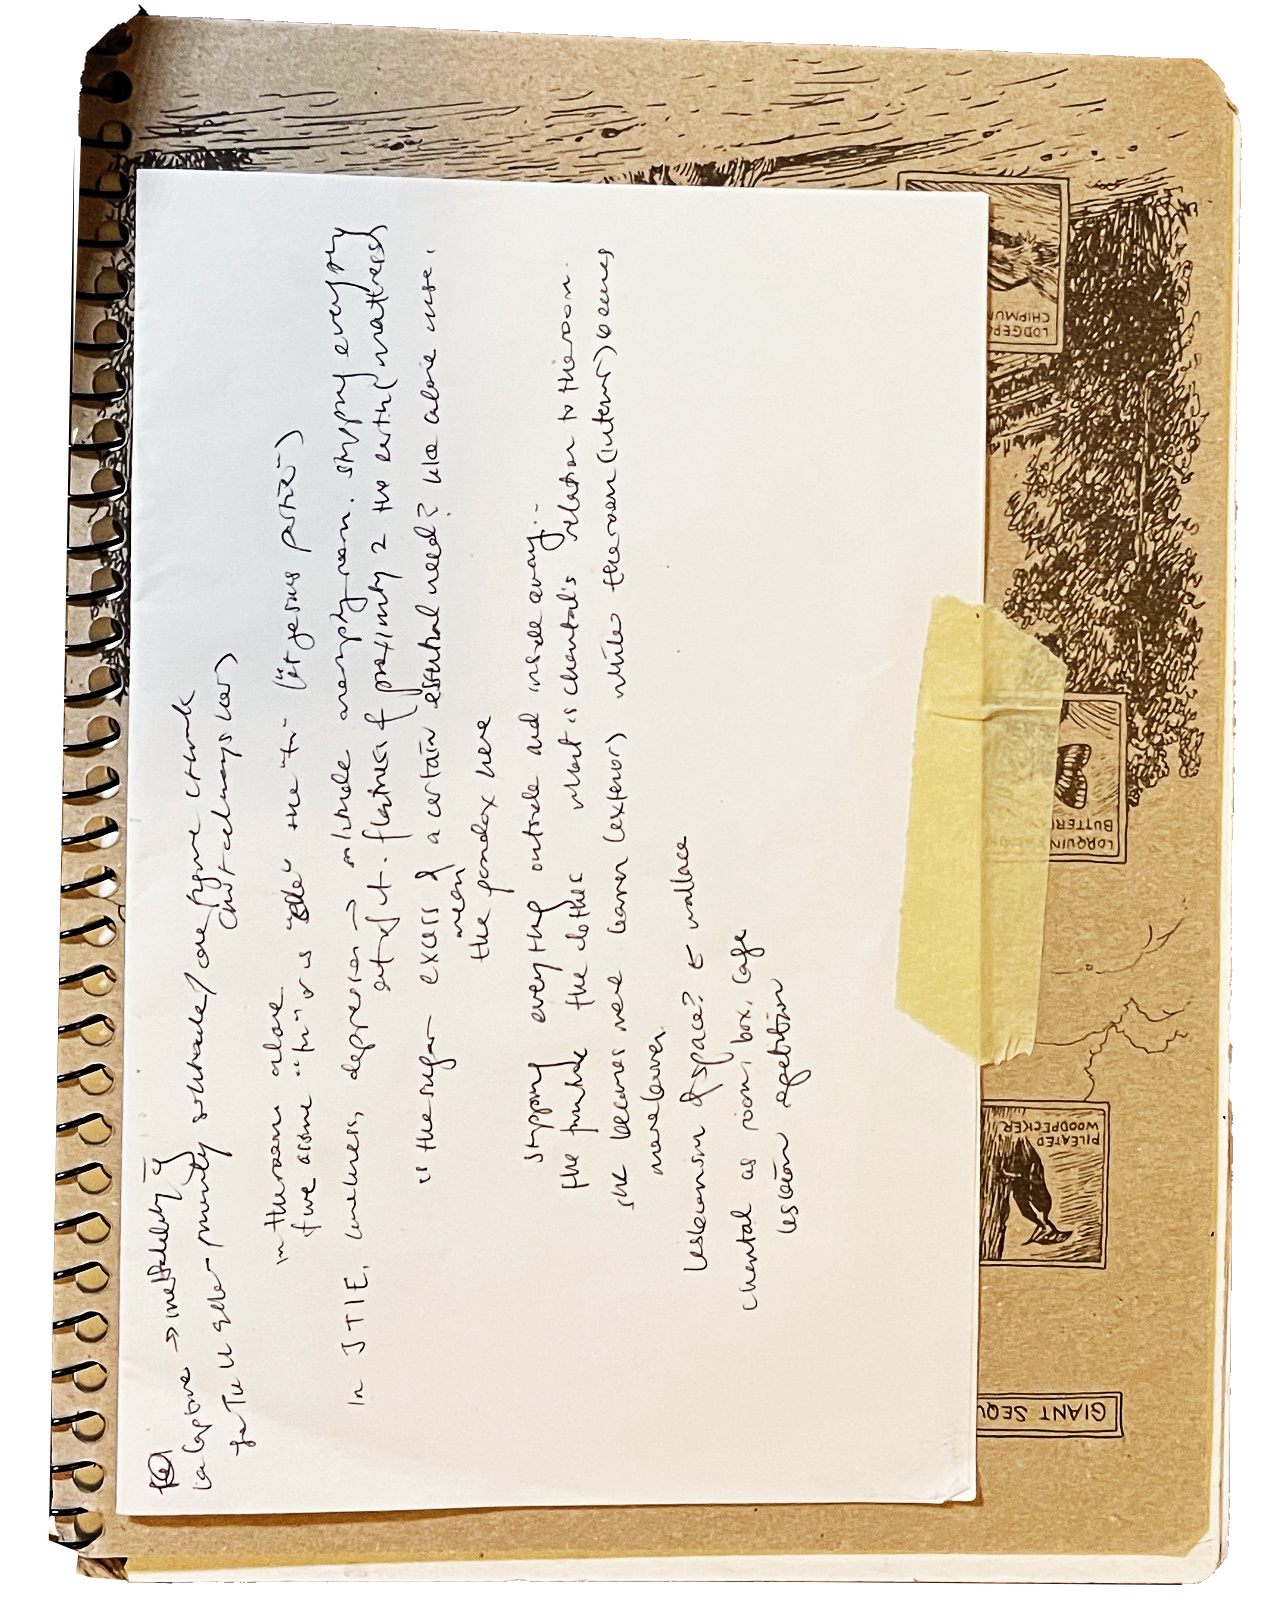
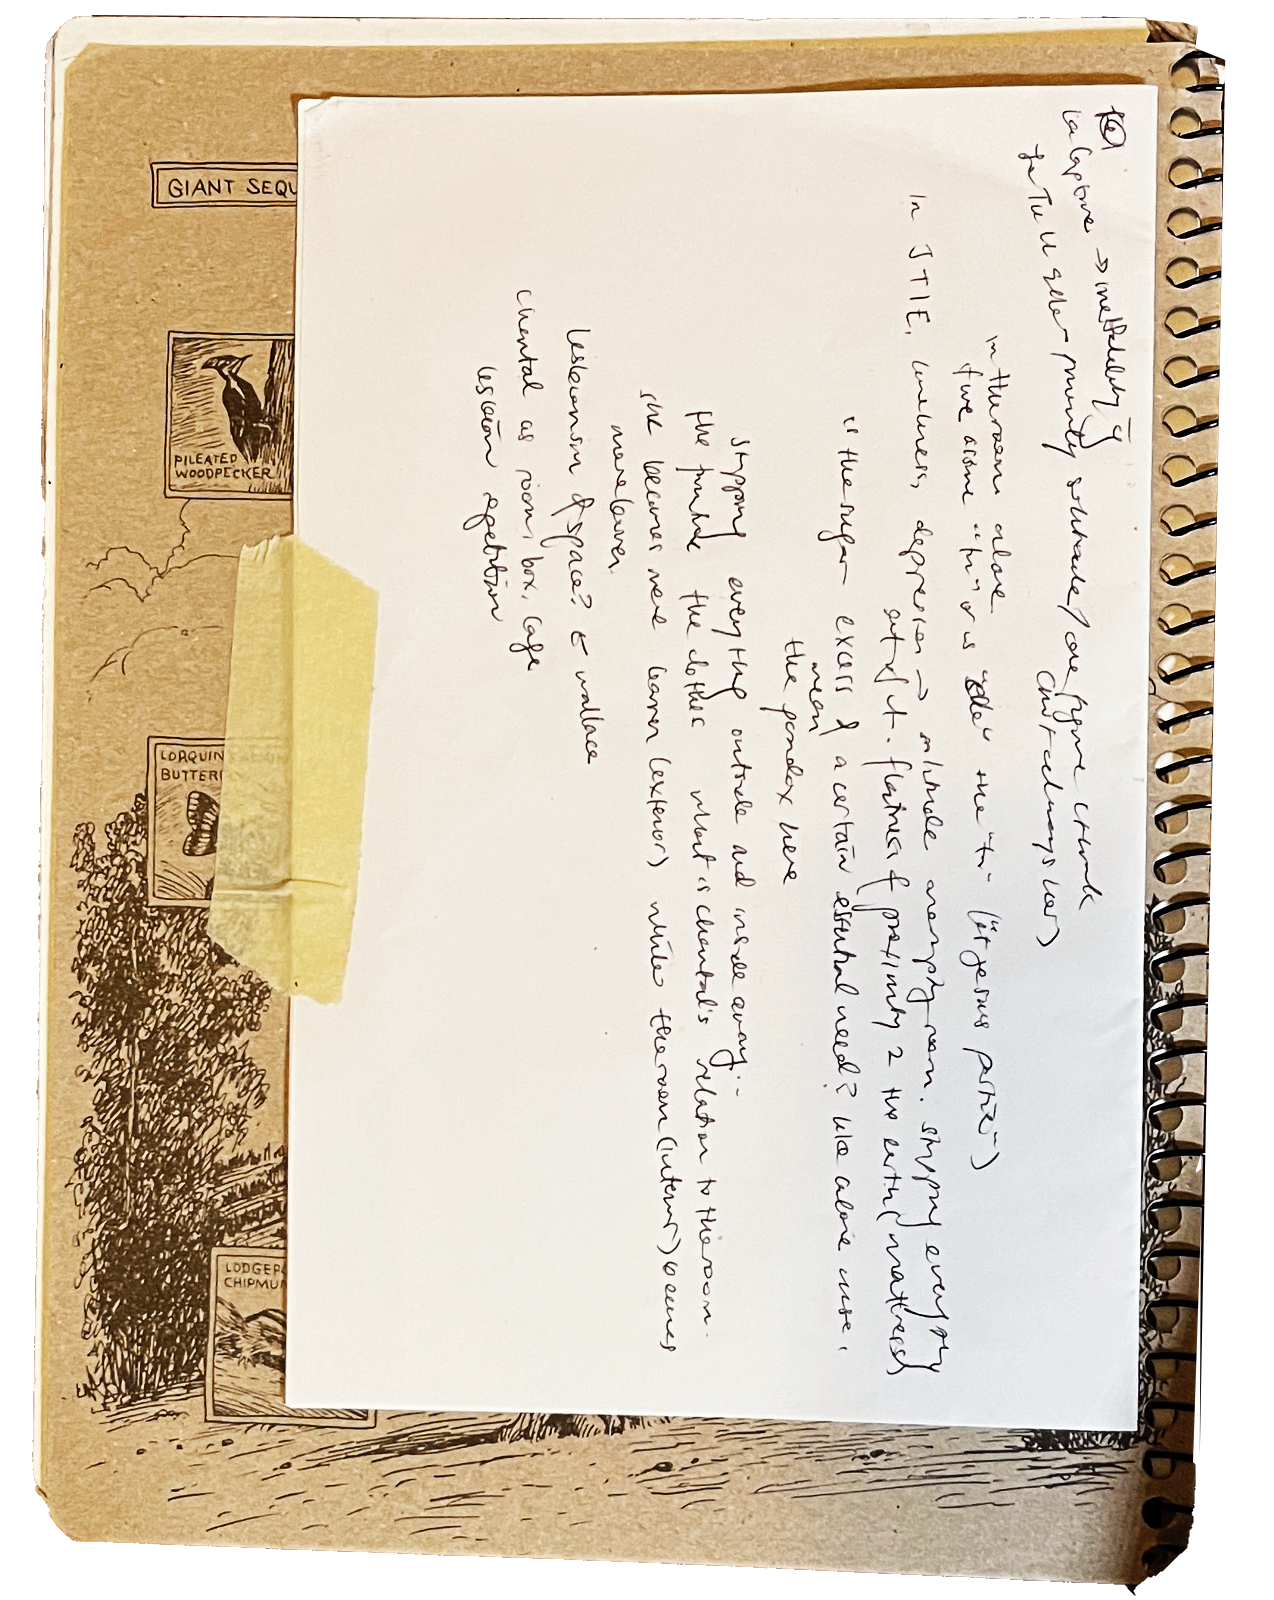
gah

diff --git a/notebook.html b/notebook.html
@@ -35,8 +35,12 @@
         </div>
 
         <nav class="nav-columns">
-            <button id="navMenuButton">
-                <i class="fa-solid fa-moon"></i>
+            <button id="navMenuMinus">
+                <p id="minusText">&mdash;</p>
+            </button>
+
+            <button id="navMenuPlus" class="hidden">
+                <p id="plusText">+</p>
             </button>
 
             <div class="main-menu-full">
@@ -63,21 +67,25 @@
 
     <main>
         <div class="section">
-            <div class="journal-pics">
-                <figure><img src="/images/notebooks/j1.png"></figure>
-                <figure><img src="/images/notebooks/j3.png"></figure>
-                <figure><img src="/images/notebooks/j2.png"></figure>
-                <figure><img src="/images/notebooks/j4.png"></figure>
-            </div>
+
             <div class="page-title">
                 <h2>bits and pieces</h2>
             </div>
-            <p class="grey">the part where i'm an exhibitionist or an attention whore, it's probably both. <em>general content warning for mental health related topics.</em></p>
+            <p class="grey">the part where i'm an exhibitionist or an attention whore, it's probably both. <em>general
+                    content warning for mental health related topics.</em></p>
+
+            <div class="journal-pics">
+                <figure><img src="/images/notebooks/j1.png"></figure>
+                <figure><img src="/images/notebooks/j3.png"></figure>
+                <figure><img src="/images/notebooks/j4.png"></figure>
+                <figure><img src="/images/notebooks/j2.png"></figure>
+            </div>
+
             <div class="gallery notebook-grid">
                 <div class="notebook-entry">
                     <div class="two-column entry-details">
                         <p class="n-date">[date]</p>
-                  
+
                     </div>
                     <p>ahhhhhhhhhh</p>
                 </div>
@@ -85,48 +93,61 @@
                 <div class="notebook-entry">
                     <div class="two-column entry-details">
                         <p class="n-date">2026.09.02</p>
-                        
+
                     </div>
-                    <p><a href="https://www.cornellsun.com/article/2026/09/aysw-the-pull-of-chantal-akerman">external: the pull of chantal akerman</a>. in which my editor suggested i fell in love with her instead of into her work. i think he was right &mdash; i am pulled, compelled. a compulsion. obsessive. obsessed. endless circles around her.</p>
+                    <p><a href="https://www.cornellsun.com/article/2026/09/aysw-the-pull-of-chantal-akerman">external
+                            link: the pull of chantal akerman</a>. in which my editor suggested i fell in love with her.
+                        i think he was right &mdash; i am pulled, compelled. a compulsion. obsessive. obsessed. endless
+                        circles around her.</p>
                 </div>
 
                 <div class="notebook-entry">
                     <div class="two-column entry-details">
                         <p class="n-date">[date]</p>
-                     
+
                     </div>
-                    <p>Lorem ipsum dolor sit amet, consectetur adipiscing elit, sed do eiusmod tempor incididunt ut labore et dolore magna aliqua. Ut enim ad minim veniam, quis nostrud exercitation ullamco laboris nisi ut aliquip ex ea commodo consequat. </p>
+                    <p>Lorem ipsum dolor sit amet, consectetur adipiscing elit, sed do eiusmod tempor incididunt ut
+                        labore et dolore magna aliqua. Ut enim ad minim veniam, quis nostrud exercitation ullamco
+                        laboris nisi ut aliquip ex ea commodo consequat. </p>
                 </div>
 
                 <div class="notebook-entry">
                     <div class="two-column entry-details">
-                   
-                    </div>
-                    <p>Lorem ipsum dolor sit amet, consectetur adipiscing elit, sed do eiusmod tempor incididunt ut labore et dolore magna aliqua. Ut enim ad minim veniam, quis nostrud exercitation ullamco laboris nisi ut aliquip ex ea commodo consequat. </p>
-                </div>
 
-                <div class="notebook-entry">
-                    <div class="two-column entry-details">
-                        <p class="n-date">[date]</p>
-                 
                     </div>
-                    <p>Lorem ipsum dolor sit amet, consectetur adipiscing elit, sed do eiusmod tempor incididunt ut labore et dolore magna aliqua. Ut enim ad minim veniam, quis nostrud exercitation ullamco laboris nisi ut aliquip ex ea commodo consequat. </p>
-                </div>
-
-                <div class="notebook-entry">
-                    <div class="two-column entry-details">
-                        <p class="n-date">[date]</p>
-       
-                    </div>
-                    <p>Lorem ipsum dolor sit amet, consectetur adipiscing elit, sed do eiusmod tempor incididunt ut labore et dolore magna aliqua. Ut enim ad minim veniam, quis nostrud exercitation ullamco laboris nisi ut aliquip ex ea commodo consequat. </p>
+                    <p>Lorem ipsum dolor sit amet, consectetur adipiscing elit, sed do eiusmod tempor incididunt ut
+                        labore et dolore magna aliqua. Ut enim ad minim veniam, quis nostrud exercitation ullamco
+                        laboris nisi ut aliquip ex ea commodo consequat. </p>
                 </div>
 
                 <div class="notebook-entry">
                     <div class="two-column entry-details">
                         <p class="n-date">[date]</p>
-          
+
                     </div>
-                    <p>Lorem ipsum dolor sit amet, consectetur adipiscing elit, sed do eiusmod tempor incididunt ut labore et dolore magna aliqua. Ut enim ad minim veniam, quis nostrud exercitation ullamco laboris nisi ut aliquip ex ea commodo consequat. </p>
+                    <p>Lorem ipsum dolor sit amet, consectetur adipiscing elit, sed do eiusmod tempor incididunt ut
+                        labore et dolore magna aliqua. Ut enim ad minim veniam, quis nostrud exercitation ullamco
+                        laboris nisi ut aliquip ex ea commodo consequat. </p>
+                </div>
+
+                <div class="notebook-entry">
+                    <div class="two-column entry-details">
+                        <p class="n-date">[date]</p>
+
+                    </div>
+                    <p>Lorem ipsum dolor sit amet, consectetur adipiscing elit, sed do eiusmod tempor incididunt ut
+                        labore et dolore magna aliqua. Ut enim ad minim veniam, quis nostrud exercitation ullamco
+                        laboris nisi ut aliquip ex ea commodo consequat. </p>
+                </div>
+
+                <div class="notebook-entry">
+                    <div class="two-column entry-details">
+                        <p class="n-date">[date]</p>
+
+                    </div>
+                    <p>Lorem ipsum dolor sit amet, consectetur adipiscing elit, sed do eiusmod tempor incididunt ut
+                        labore et dolore magna aliqua. Ut enim ad minim veniam, quis nostrud exercitation ullamco
+                        laboris nisi ut aliquip ex ea commodo consequat. </p>
                 </div>
             </div>
 

diff --git a/collecting.html b/collecting.html
@@ -28,15 +28,19 @@
     <script src="scripts/index.js"></script>
 
 
-    <header>
+   <header>
         <div class="home">
             <h1><a href="/index.html">a trip to the moon</a></h1>
             <h3><em>bordering on fiction</em></h3>
         </div>
 
         <nav class="nav-columns">
-            <button id="navMenuButton">
-                <i class="fa-solid fa-moon"></i>
+            <button id="navMenuMinus">
+                <p id="minusText">&mdash;</p>
+            </button>
+
+            <button id="navMenuPlus" class="hidden">
+                <p id="plusText">+</p>
             </button>
 
             <div class="main-menu-full">
@@ -60,6 +64,8 @@
             </div>
         </nav>
     </header>
+
+
     <main>
         <div class="section">
             <p class="grey">a (re)collection of things</p>
@@ -73,7 +79,7 @@
                 </div>
 
                 <div class="collection-item">
-                    <p>test text test text test text test text test</p>
+                    <p>CA: My energy comes in fits. I spend half my time in bed. Luckily there’s a window now in front of me, and I look outside. Before, there was a wall. I had my first manic episode at 34. My life changed, something broke down: something of that energy that filled me when I was younger. Previously, I had felt a kind of energy in life, with moments of depression of course – but I read constantly, took notes, was curious about everything. Then it was gone … The breakdown knocked me out.</p>
                 </div>
             </div>
         </div>

diff --git a/styles/site.css b/styles/site.css
@@ -16,6 +16,8 @@ header {
     display: flex;
     flex-direction: row;
     align-items: start;
+    margin-left: auto;
+    margin-right: auto;
 }
 
 div {
@@ -208,6 +210,10 @@ nav a {
     width: 25%;
 }
 
+.skbk {
+    margin-top: 3em;
+}
+
 .sk-vert {
     width: 20%;
 }
@@ -336,6 +342,7 @@ nav a {
     margin-right: auto;
     justify-content: center;
     align-items: end;
+    margin-right:1.5em;
 }
 
 /* photo */
@@ -344,6 +351,7 @@ nav a {
     grid-template-columns: repeat(3, 1fr);
     column-gap: 1.25em;
     margin-top: 1.5em;
+    align-items: end;
 }
 
 .photo-grid figure {
@@ -358,10 +366,11 @@ nav a {
     row-gap: 1.25em;
     align-items: end;
     justify-items: center;
+    margin-top: 1.5em;
 }
 
 .collection-item {
-    max-width: 95%;
+    max-width: 90%;
 }
 
 /* hover */

diff --git a/about.html b/about.html
@@ -9,7 +9,7 @@
     <script src="https://kit.fontawesome.com/0027ad2511.js" crossorigin="anonymous"></script>
 
     <link rel="stylesheet" href="/styles/site.css">
-    
+
 
     <!-- fonts -->
     <link rel="preconnect" href="https://fonts.googleapis.com">
@@ -35,8 +35,12 @@
         </div>
 
         <nav class="nav-columns">
-            <button id="navMenuButton">
-                <i class="fa-solid fa-moon"></i>
+            <button id="navMenuMinus">
+                <p id="minusText">&mdash;</p>
+            </button>
+
+            <button id="navMenuPlus" class="hidden">
+                <p id="plusText">+</p>
             </button>
 
             <div class="main-menu-full">

diff --git a/log.html b/log.html
@@ -9,7 +9,7 @@
     <script src="https://kit.fontawesome.com/0027ad2511.js" crossorigin="anonymous"></script>
 
     <link rel="stylesheet" href="/styles/site.css">
-    
+
 
     <!-- fonts -->
     <link rel="preconnect" href="https://fonts.googleapis.com">
@@ -35,8 +35,12 @@
         </div>
 
         <nav class="nav-columns">
-            <button id="navMenuButton">
-                <i class="fa-solid fa-moon"></i>
+            <button id="navMenuMinus">
+                <p id="minusText">&mdash;</p>
+            </button>
+
+            <button id="navMenuPlus" class="hidden">
+                <p id="plusText">+</p>
             </button>
 
             <div class="main-menu-full">

diff --git a/sketchbooks.html b/sketchbooks.html
@@ -9,7 +9,7 @@
     <script src="https://kit.fontawesome.com/0027ad2511.js" crossorigin="anonymous"></script>
 
     <link rel="stylesheet" href="/styles/site.css">
-    
+
 
     <!-- fonts -->
     <link rel="preconnect" href="https://fonts.googleapis.com">
@@ -35,8 +35,12 @@
         </div>
 
         <nav class="nav-columns">
-            <button id="navMenuButton">
-                <i class="fa-solid fa-moon"></i>
+            <button id="navMenuMinus">
+                <p id="minusText">&mdash;</p>
+            </button>
+
+            <button id="navMenuPlus" class="hidden">
+                <p id="plusText">+</p>
             </button>
 
             <div class="main-menu-full">

diff --git a/s1.html b/s1.html
@@ -35,7 +35,7 @@
     </header>
 
     <main>
-        <div class="gallery gallery-three">
+        <div class="gallery gallery-three skbk">
             <figure><img src="images/sk1/captive1.png"></figure>
             <figure><img src="images/sk1/jtie1.png"></figure>
             <figure><img src="images/sk1/lc.png"></figure>
@@ -45,7 +45,7 @@
         </div>
 
           <div class="sketchbook-nav">
-            <p><a href="/index.html">home</a> / <a href="/sketchbooks.html">back</a></p>
+            <p>&#40;<a href="/index.html">home</a> / <a href="/sketchbooks.html">back</a>&#41;</p>
         </div>
-        
+
     </main>

diff --git a/s2.html b/s2.html
@@ -33,7 +33,7 @@
     </header>
 
     <main>
-        <div class="gallery gallery-two">
+        <div class="gallery gallery-two skbk">
             <figure><img src="images/sk2/self1.png"></figure>
             <figure><img src="images/sk2/self2.png"></figure>
             <figure><img src="images/sk2/selfdual.png"></figure>
@@ -41,6 +41,6 @@
         </div>
         
         <div class="sketchbook-nav">
-            <p><a href="/index.html">home</a> / <a href="/sketchbooks.html">back</a></p>
+            <p>&#40;<a href="/index.html">home</a> / <a href="/sketchbooks.html">back</a>&#41;</p>
         </div>
     </main>

diff --git a/hearth.html b/hearth.html
@@ -35,8 +35,12 @@
         </div>
 
         <nav class="nav-columns">
-            <button id="navMenuButton">
-                <i class="fa-solid fa-moon"></i>
+            <button id="navMenuMinus">
+                <p id="minusText">&mdash;</p>
+            </button>
+
+            <button id="navMenuPlus" class="hidden">
+                <p id="plusText">+</p>
             </button>
 
             <div class="main-menu-full">

diff --git a/photos.html b/photos.html
@@ -67,7 +67,7 @@
             <div class="gallery photo-grid">
                 <figure><img src="/images/photos/c3.jpg"></figure>
                 <figure><img src="/images/photos/p6.JPG"></figure>
-                <figure><img src="/images/photos/p7.jpg"></figure>
+                <figure><img src="/images/photos/p7.JPG"></figure>
             </div>
         </div>
     </main>
